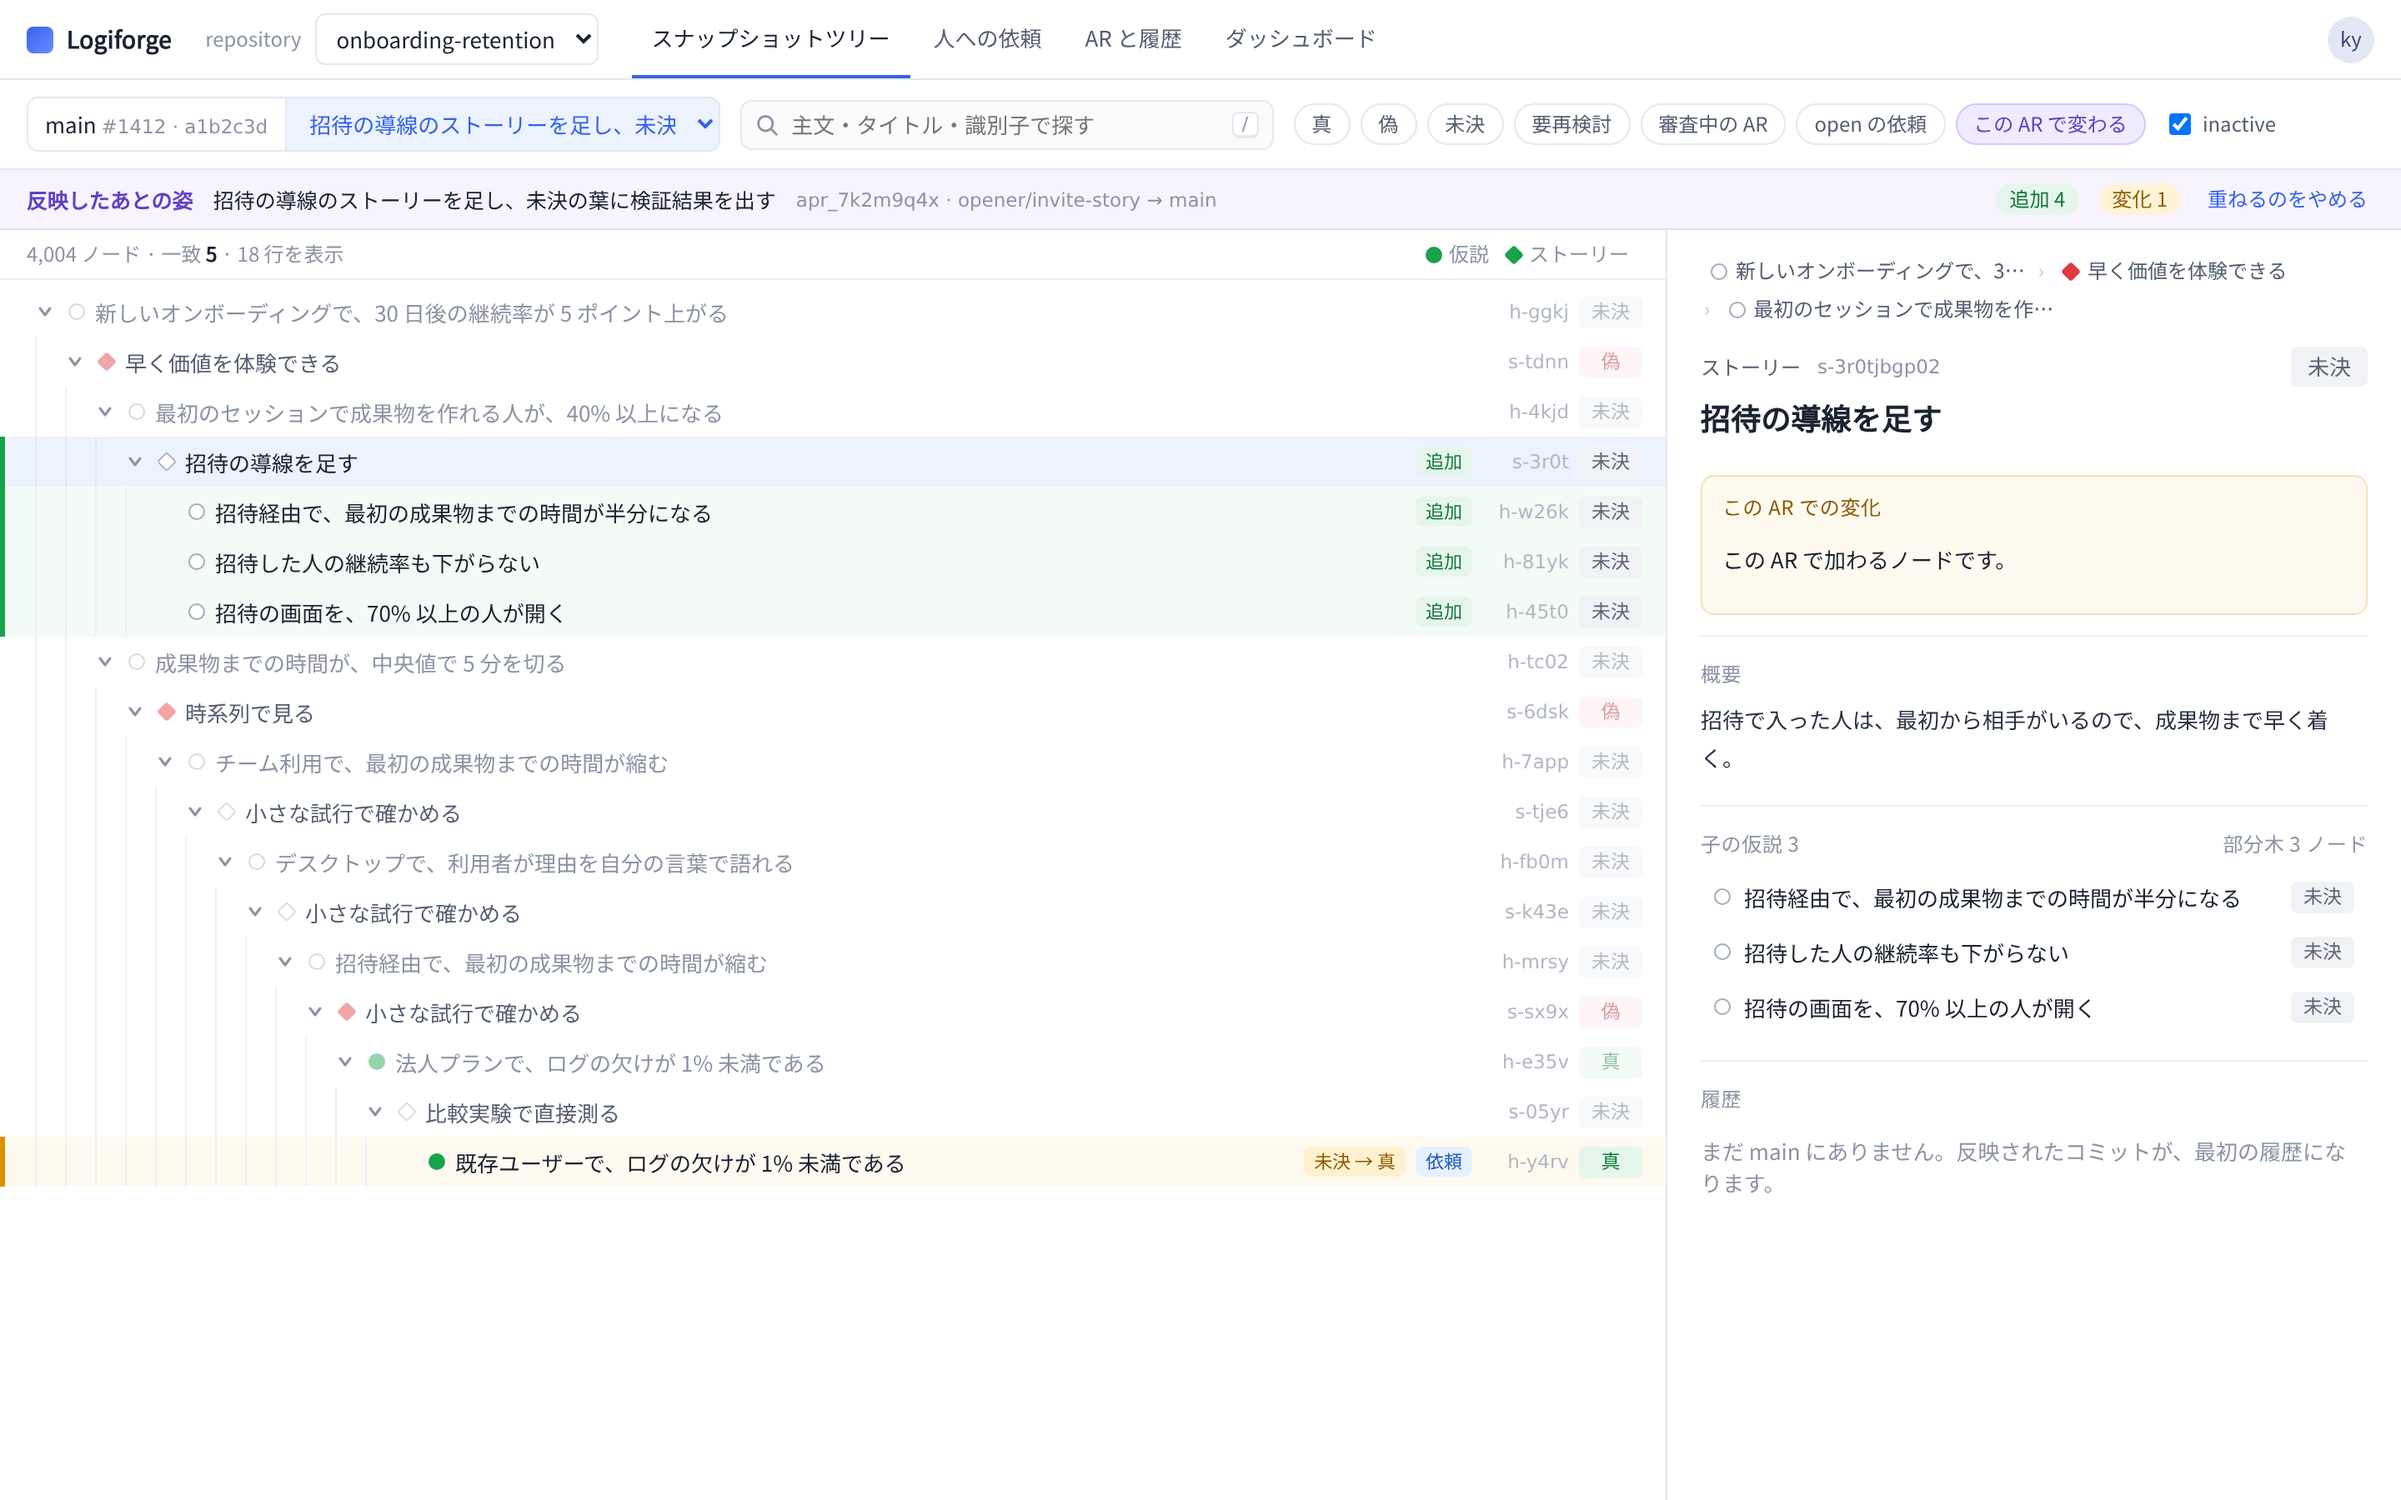
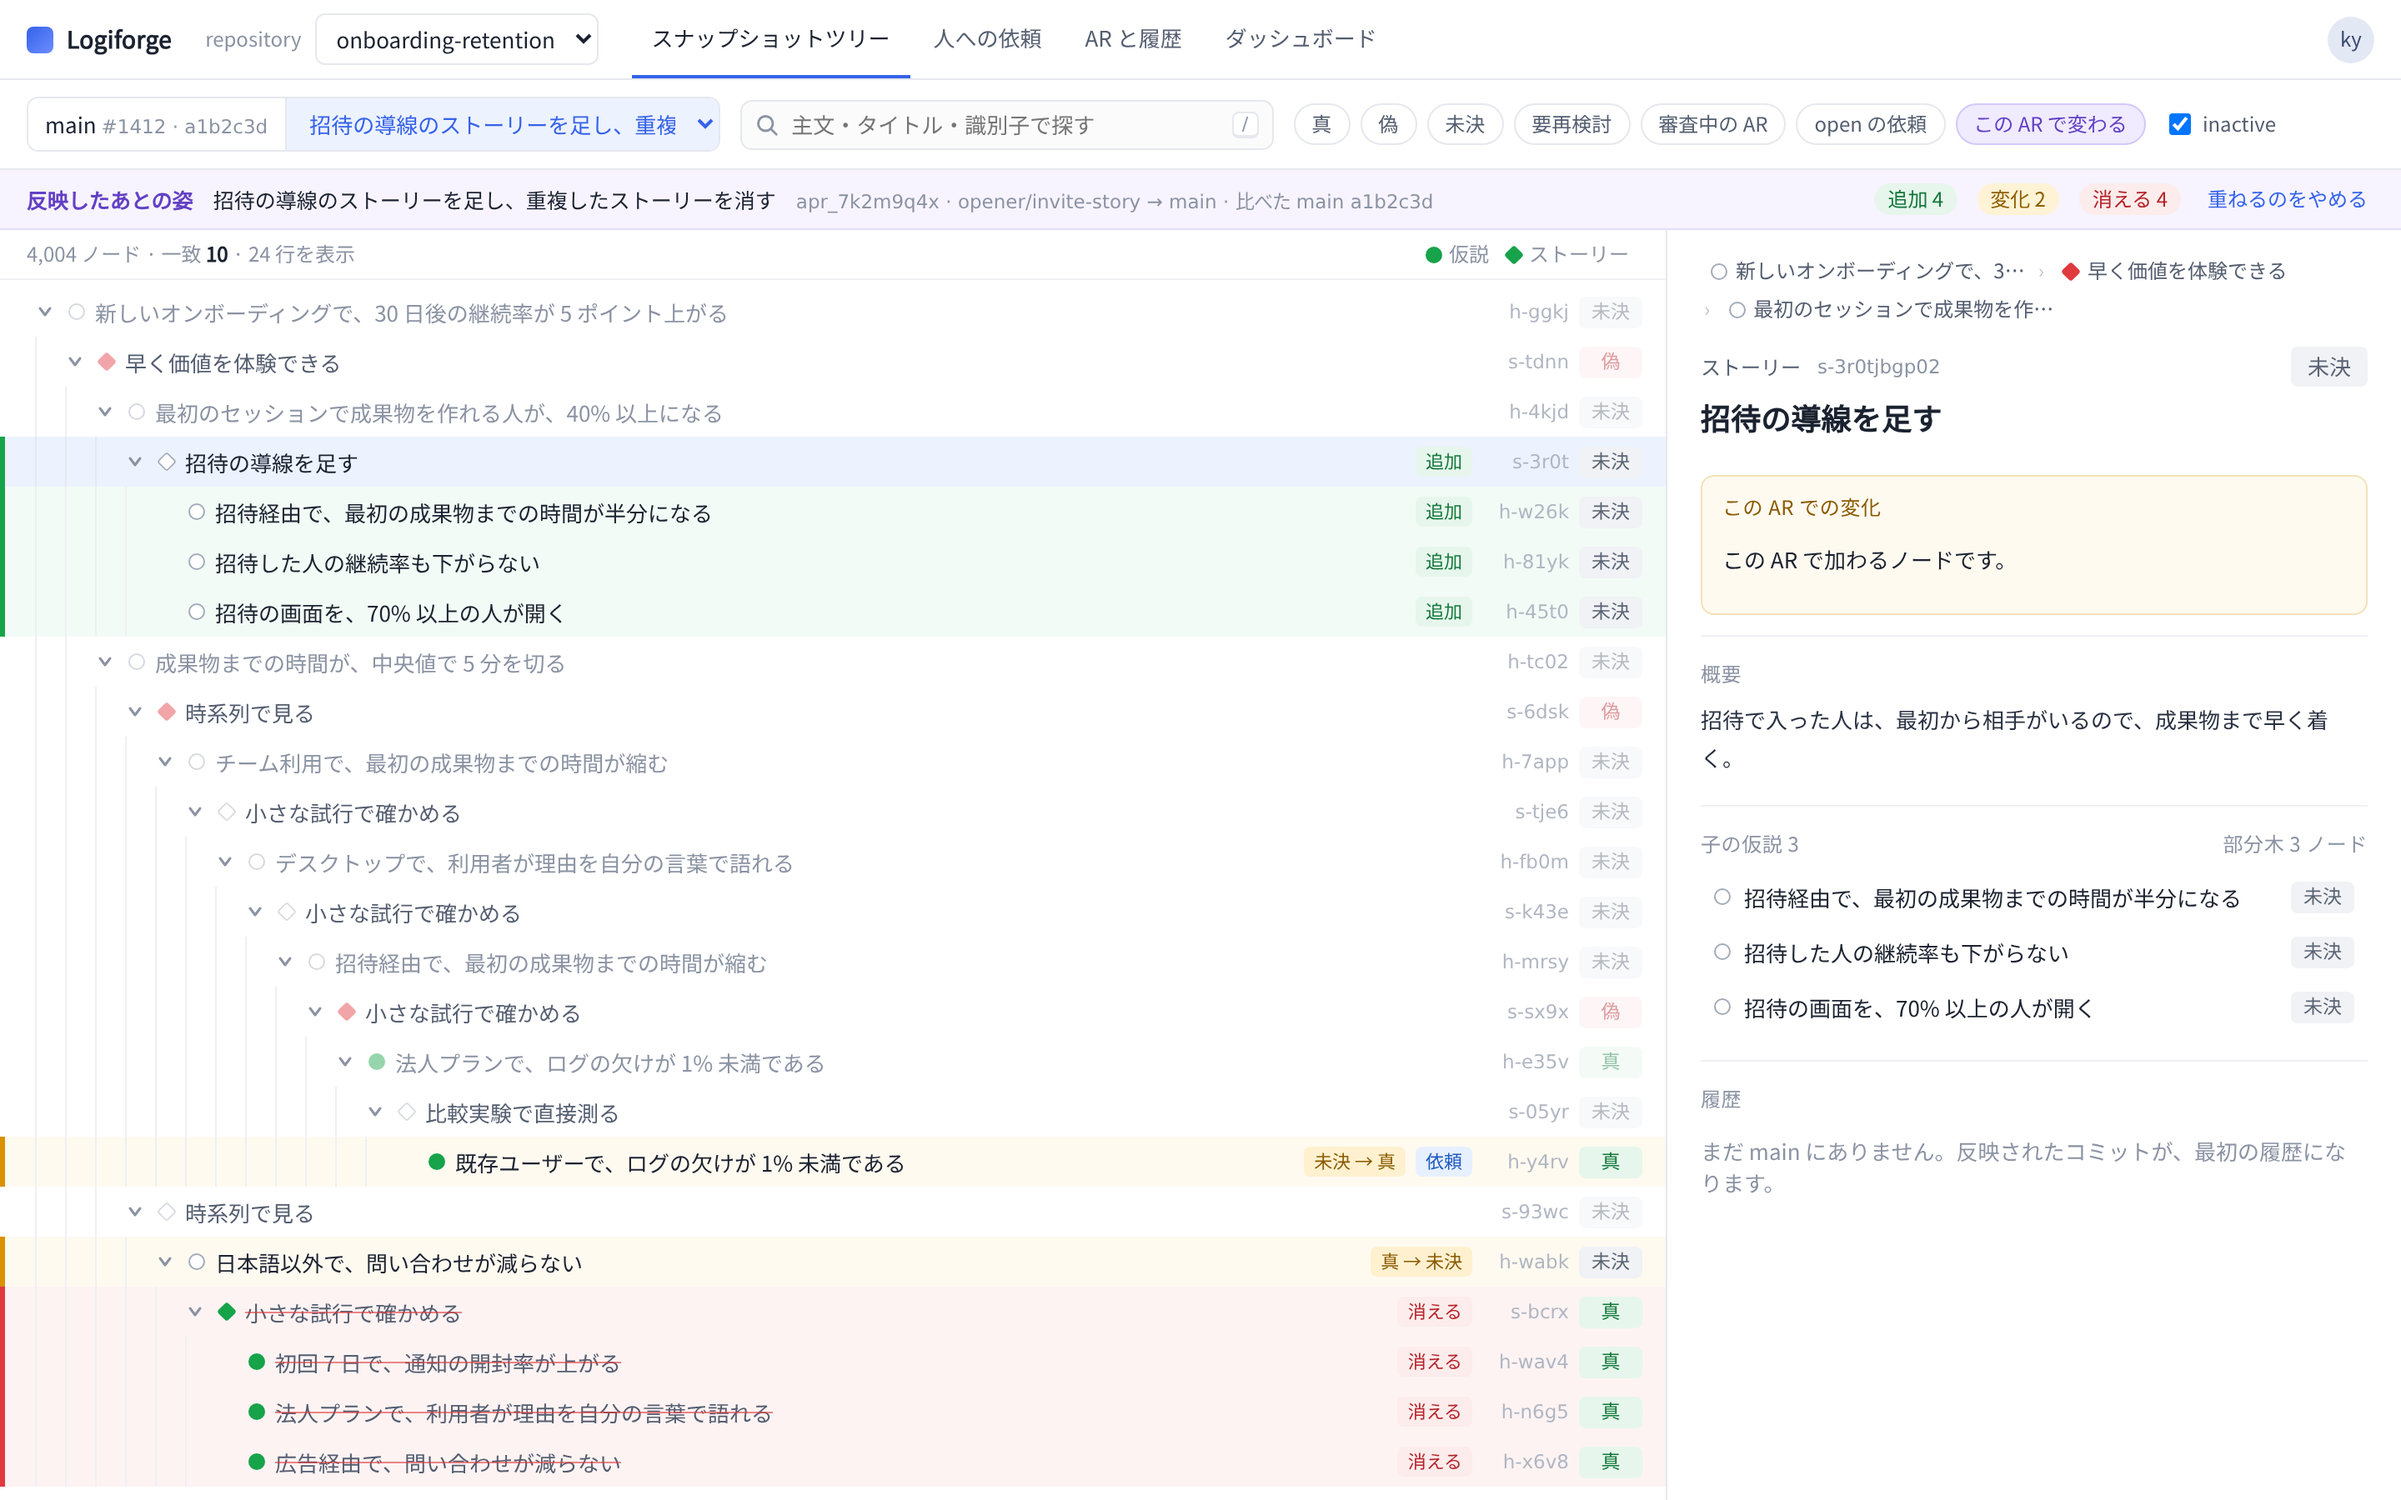
試作: 反映すると消えるノードを、もとの位置に取り消し線で示す。比べた main を帯に示す

diff --git a/prototypes/webui-viewer/src/App.tsx b/prototypes/webui-viewer/src/App.tsx
@@ -1,6 +1,6 @@
 import { useCallback, useEffect, useMemo, useRef, useState } from 'react';
 import { listApplyRequests, listNodes, Problem, type ApplyRequestSummary } from './api';
-import { buildIndex, diff, textOf, visibleRows, withAncestors, ancestors, type Index, type Change } from './model';
+import { buildIndex, diff, textOf, visibleRows, withAncestors, ancestors, withRemoved, type Index, type Change } from './model';
 import { TreePane } from './TreePane';
 import { DetailPane } from './DetailPane';
 
@@ -21,7 +21,7 @@ const FILTERS: { key: Filter; label: string; overlayOnly?: boolean }[] = [
 type Overlay =
   | { state: 'none' }
   | { state: 'loading'; ar: ApplyRequestSummary }
-  | { state: 'ok'; ar: ApplyRequestSummary; ix: Index; changes: Map<string, Change>; removed: string[] }
+  | { state: 'ok'; ar: ApplyRequestSummary; ix: Index; changes: Map<string, Change>; removed: string[]; base: string }
   | { state: 'unsupported'; ar: ApplyRequestSummary }
   | { state: 'conflict'; ar: ApplyRequestSummary; paths: string[] };
 
@@ -68,9 +68,12 @@ export function App() {
     setOverlay({ state: 'loading', ar });
     try {
       const r = await listNodes(N, ar);
-      const ix = buildIndex(r.nodes);
-      const d = diff(base, ix);
-      setOverlay({ state: 'ok', ar, ix, changes: d.changes, removed: d.removed });
+      // 比べる相手は、重ねた向き先のコミット（r.commit）の main。手元の main と違えば読み直す（試作では同じ）
+      const after = buildIndex(r.nodes);
+      const d = diff(base, after);
+      const ix = d.removed.length ? buildIndex(withRemoved(after, base, d.removed)) : after;
+      for (const id of d.removed) d.changes.set(id, { kind: 'removed' });
+      setOverlay({ state: 'ok', ar, ix, changes: d.changes, removed: d.removed, base: r.commit });
       // 変わるノードの祖先を開く
       setExpanded((e) => { const s = new Set(e); for (const id of d.changes.keys()) for (const a of ancestors(ix, id)) s.add(a); return s; });
       if (!params.get('node')) { const first = [...d.changes.keys()][0]; if (first) setSelected(first); }
@@ -214,7 +217,7 @@ export function App() {
         <div className="banner overlay">
           <span className="banner-title">反映したあとの姿</span>
           <span>{overlay.ar.description}</span>
-          <span className="mono dim">{overlay.ar.id} · {overlay.ar.branch} → main</span>
+          <span className="mono dim">{overlay.ar.id} · {overlay.ar.branch} → main · 比べた main {overlay.base.slice(0, 7)}</span>
           <span className="spacer" />
           <span className="pill added">追加 {[...overlay.changes.values()].filter((c) => c.kind === 'added').length}</span>
           <span className="pill changed">変化 {[...overlay.changes.values()].filter((c) => c.kind === 'changed').length}</span>

diff --git a/prototypes/webui-viewer/src/model.ts b/prototypes/webui-viewer/src/model.ts
@@ -125,7 +125,7 @@ export function withAncestors(ix: Index, ids: Iterable<string>): Set<string> {
   return s;
 }
 
-export type Change = { kind: 'added' } | { kind: 'changed'; fields: { name: string; before: string; after: string }[] };
+export type Change = { kind: 'added' } | { kind: 'removed' } | { kind: 'changed'; fields: { name: string; before: string; after: string }[] };
 
 const vLabel = (v: TruthValue) => (v === true ? '真' : v === false ? '偽' : '未決');
 
@@ -148,6 +148,38 @@ export function diff(before: Index, after: Index): { changes: Map<string, Change
   }
   const removed = before.nodes.filter((n) => !after.byId.has(n.id)).map((n) => n.id);
   return { changes, removed };
+}
+
+// 反映すると消えるノードを、比べた main での位置に差し込んだ、深さ優先の並びを返す
+export function withRemoved(after: Index, before: Index, removed: string[]): Node[] {
+  const children = new Map<string, string[]>();
+  for (const [k, v] of after.children) children.set(k, [...v]);
+  const gone = new Set(removed);
+  for (const id of removed) {
+    const p = parentOf(before.byId.get(id)!);
+    if (!p || gone.has(p)) continue; // 消える部分木の子孫は、親と一緒に入る
+    const sibs = before.children.get(p) ?? [];
+    const list = children.get(p) ?? [];
+    let at = 0;
+    for (const s of sibs) {
+      if (s === id) break;
+      const i = list.indexOf(s);
+      if (i >= 0) at = i + 1;
+    }
+    list.splice(at, 0, id);
+    children.set(p, list);
+  }
+  for (const id of removed) {
+    const p = parentOf(before.byId.get(id)!);
+    if (p && gone.has(p)) children.set(p, before.children.get(p) ?? []);
+  }
+  const out: Node[] = [];
+  const walk = (id: string) => {
+    out.push(after.byId.get(id) ?? before.byId.get(id)!);
+    for (const c of children.get(id) ?? []) walk(c);
+  };
+  walk(after.rootId);
+  return out;
 }
 
 export { vLabel };

diff --git a/prototypes/webui-viewer/src/styles.css b/prototypes/webui-viewer/src/styles.css
@@ -101,7 +101,10 @@ kbd { font-family: var(--mono); font-size: 11px; border: 1px solid var(--line); 
 .row.ctx .glyph, .row.ctx .val, .row.ctx .tag { opacity: .45; }
 .row.chg-added { border-left-color: var(--add); background: #f3fbf6; }
 .row.chg-changed { border-left-color: var(--chg); background: #fffaf0; }
-.row.sel.chg-added, .row.sel.chg-changed { background: var(--sel); }
+.row.chg-removed { border-left-color: var(--f); background: #fdf3f3; }
+.row.chg-removed .text { text-decoration: line-through; text-decoration-color: #e0393e99; color: var(--sub); }
+.row.sel.chg-added, .row.sel.chg-changed, .row.sel.chg-removed { background: var(--sel); }
+.t-removed { background: var(--f-bg); color: var(--f-fg); }
 .row.story .text { color: var(--sub); }
 .row.story.sel .text { color: var(--text); }
 .indent { position: relative; flex: none; height: 100%; }

diff --git a/prototypes/webui-viewer/src/TreePane.tsx b/prototypes/webui-viewer/src/TreePane.tsx
@@ -146,6 +146,7 @@ const TreeRow = memo(function TreeRow({ top, row, ix, selected, match, dimmed, q
         <Highlight text={textOf(n)} q={match ? query : ''} />
       </span>
       {change?.kind === 'added' && <span className="tag t-added">追加</span>}
+      {change?.kind === 'removed' && <span className="tag t-removed">消える</span>}
       {valueChange && <span className="tag t-changed">{valueChange.before} → {valueChange.after}</span>}
       {change?.kind === 'changed' && !valueChange && <span className="tag t-changed">変化</span>}
       {isH && n.needs_reconsideration && <span className="tag t-nr">要再検討</span>}

diff --git a/prototypes/webui-viewer/src/DetailPane.tsx b/prototypes/webui-viewer/src/DetailPane.tsx
@@ -53,6 +53,8 @@ export function DetailPane({ ix, id, change, onReveal }: Props) {
         <Section title="この AR での変化" tone="chg">
           {change.kind === 'added' ? (
             <p>この AR で加わるノードです。</p>
+          ) : change.kind === 'removed' ? (
+            <p>この AR を反映すると消えるノードです。値と詳細は、比べた main のものです。</p>
           ) : (
             <table className="kv">
               <tbody>
